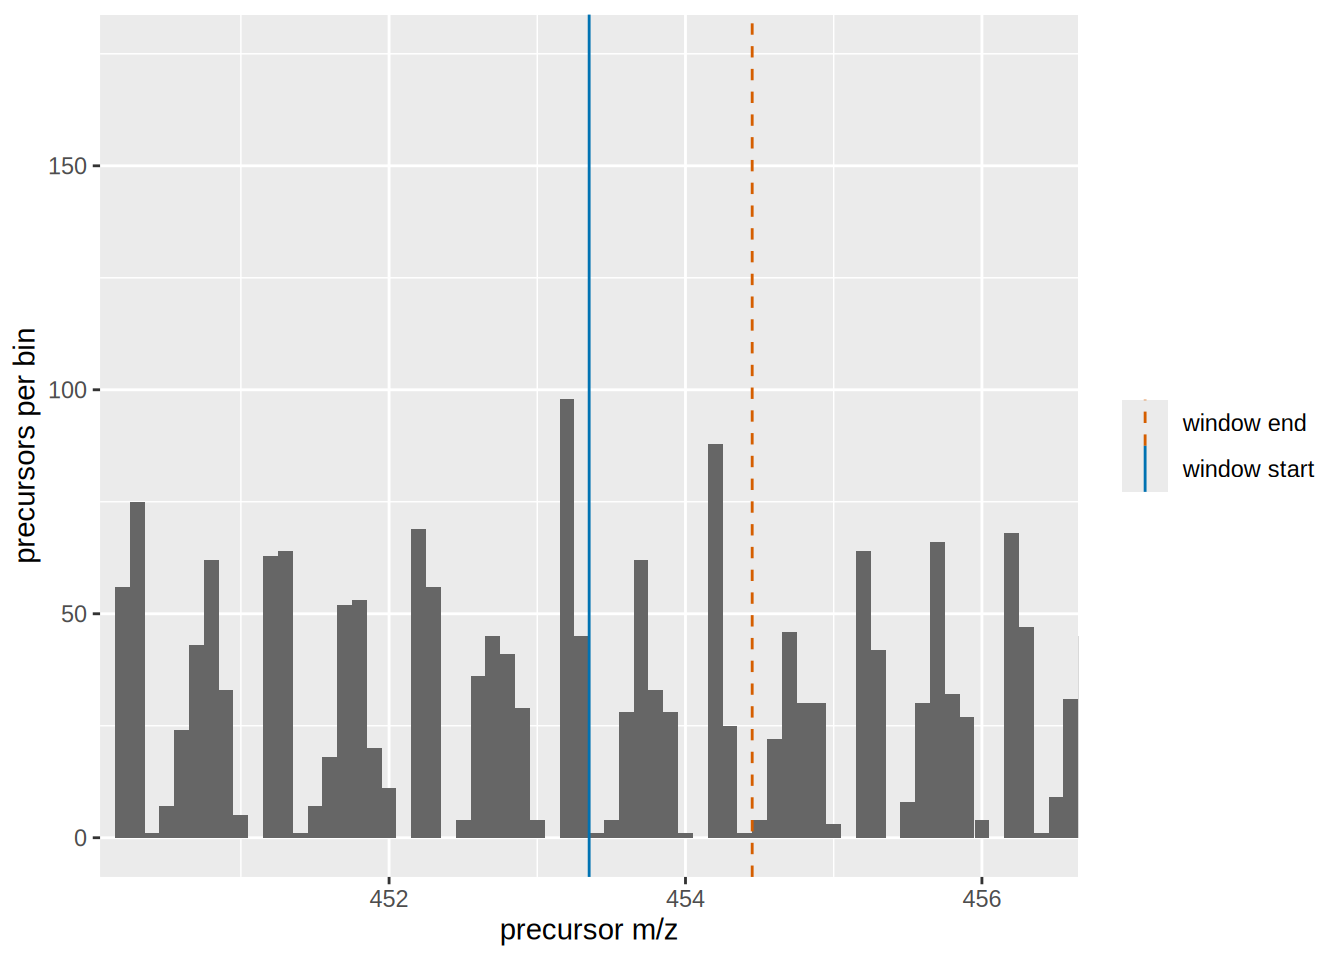
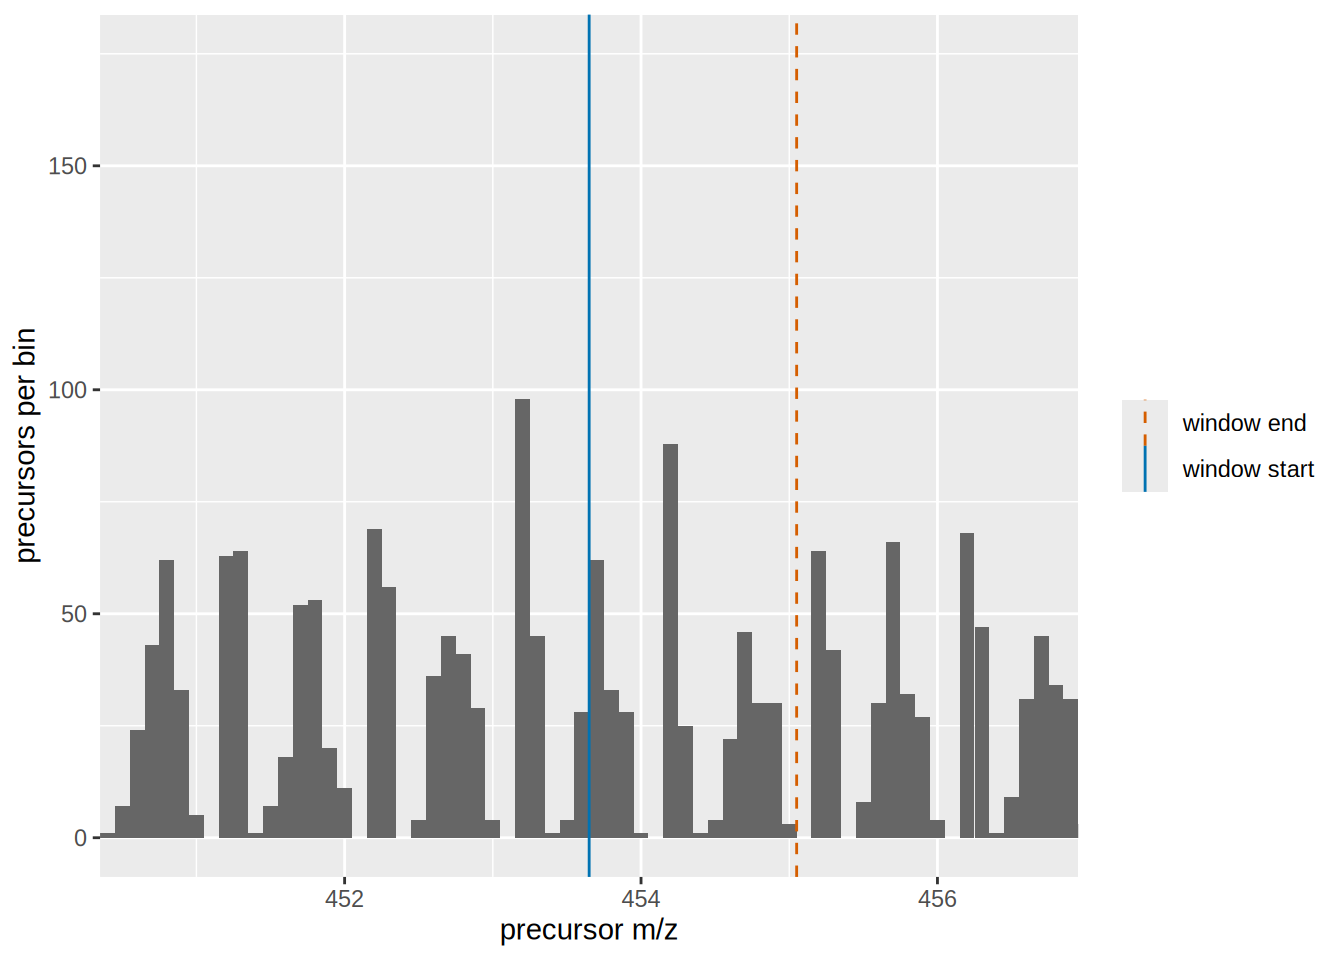
Deploying to gh-pages from @ protViz/prozor@183b9f41f8ab28ab572e6ac2d630c05c5eb521b6 🚀

diff --git a/man/Cdsw-class.html b/man/Cdsw-class.html
@@ -535,60 +535,60 @@ ggplot of the DIA cycle, one window per step; overlap in m/z.
 <div class="code-copy-outer-scaffold"><div class="sourceCode cell-code" id="cb3"><pre class="sourceCode r code-with-copy"><code class="sourceCode r"><span id="cb3-1"><a href="#cb3-1" aria-hidden="true" tabindex="-1"></a>cdsw<span class="sc">$</span><span class="fu">as_table</span>()</span></code></pre></div><button title="Copy to Clipboard" class="code-copy-button"><i class="bi"></i></button></div>
 <div class="cell-output cell-output-stdout">
 <pre><code>       from      to      mid  width counts
-0%   349.63  381.70  365.665  32.07   6104
-4%   380.70  408.40  394.550  27.70   6382
-8%   407.40  432.23  419.815  24.83   6524
-12%  431.23  454.74  442.985  23.51   6592
-16%  453.74  476.25  464.995  22.51   6638
-20%  475.25  496.80  486.025  21.55   6722
-24%  495.80  517.79  506.795  21.99   6739
-28%  516.79  538.78  527.785  21.99   6780
-32%  537.78  559.80  548.790  22.02   6701
-36%  558.80  581.28  570.040  22.48   6731
-40%  580.28  602.85  591.565  22.57   6623
-44%  601.85  625.84  613.845  23.99   6597
-48%  624.84  649.84  637.340  25.00   6595
-52%  648.84  675.33  662.085  26.49   6485
-56%  674.33  701.37  687.850  27.04   6432
-60%  700.37  728.86  714.615  28.49   6246
-64%  727.86  758.44  743.150  30.58   6194
-68%  757.44  790.92  774.180  33.48   6106
-72%  789.92  826.90  808.410  36.98   5950
-76%  825.90  866.96  846.430  41.06   5736
-80%  865.96  912.49  889.225  46.53   5494
-84%  911.49  963.44  937.465  51.95   5085
-88%  962.44 1026.34  994.390  63.90   4684
-92% 1025.34 1100.71 1063.025  75.37   4149
-96% 1099.71 1200.48 1150.095 100.77   3121</code></pre>
+0%   349.63  381.71  365.670  32.08   6113
+4%   380.71  408.45  394.580  27.74   6371
+8%   407.45  432.31  419.880  24.86   6584
+12%  431.31  454.72  443.015  23.41   6507
+16%  453.72  476.24  464.980  22.52   6644
+20%  475.24  496.76  486.000  21.52   6697
+24%  495.76  517.76  506.760  22.00   6749
+28%  516.76  538.32  527.540  21.56   6739
+32%  537.32  559.31  548.315  21.99   6670
+36%  558.31  580.49  569.400  22.18   6651
+40%  579.49  602.36  590.925  22.87   6727
+44%  601.36  625.35  613.355  23.99   6592
+48%  624.35  649.31  636.830  24.96   6550
+52%  648.31  674.82  661.565  26.51   6518
+56%  673.82  700.82  687.320  27.00   6417
+60%  699.82  728.41  714.115  28.59   6334
+64%  727.41  758.40  742.905  30.99   6210
+68%  757.40  790.59  773.995  33.19   6079
+72%  789.59  826.20  807.895  36.61   5935
+76%  825.20  865.96  845.580  40.76   5702
+80%  864.96  911.40  888.180  46.44   5489
+84%  910.40  962.64  936.520  52.24   5183
+88%  961.64 1025.81  993.725  64.17   4719
+92% 1024.81 1101.35 1063.080  76.54   4200
+96% 1100.35 1200.48 1150.415 100.13   3091</code></pre>
 </div>
 <div class="code-copy-outer-scaffold"><div class="sourceCode cell-code" id="cb5"><pre class="sourceCode r code-with-copy"><code class="sourceCode r"><span id="cb5-1"><a href="#cb5-1" aria-hidden="true" tabindex="-1"></a>cdsw<span class="sc">$</span><span class="fu">optimize_windows</span>()</span></code></pre></div><button title="Copy to Clipboard" class="code-copy-button"><i class="bi"></i></button></div>
 <div class="cell-output cell-output-stdout">
 <pre><code>      from      to     mid width counts
 1   350.13  381.35  365.74 31.22   6053
-2   381.05  407.95  394.50 26.90   6189
+2   381.05  408.05  394.55 27.00   6191
 3   407.65  431.85  419.75 24.20   6425
 4   431.65  454.35  443.00 22.70   6447
 5   454.15  475.85  465.00 21.70   6474
 6   475.65  496.35  486.00 20.70   6467
 7   496.15  517.45  506.80 21.30   6578
-8   517.15  538.45  527.80 21.30   6627
-9   538.15  559.45  548.80 21.30   6508
-10  559.15  581.05  570.10 21.90   6628
-11  580.55  602.45  591.50 21.90   6383
-12  602.15  625.45  613.80 23.30   6450
-13  625.15  649.45  637.30 24.30   6463
-14  649.25  675.15  662.20 25.90   6392
-15  674.75  700.95  687.85 26.20   6228
-16  700.75  728.45  714.60 27.70   6139
-17  728.25  758.15  743.20 29.90   6018
-18  757.75  790.55  774.15 32.80   6035
-19  790.25  826.55  808.40 36.30   5881
-20  826.25  866.55  846.40 40.30   5622
-21  866.35  912.05  889.20 45.70   5408
-22  911.85  963.05  937.45 51.20   5049
-23  962.85 1025.85  994.35 63.00   4600
-24 1025.75 1100.25 1063.00 74.50   4105
-25 1100.15 1200.05 1150.10 99.90   3101</code></pre>
+8   517.15  538.05  527.60 20.90   6472
+9   537.45  559.05  548.25 21.60   6542
+10  558.55  580.05  569.30 21.50   6458
+11  579.55  602.05  590.80 22.50   6576
+12  601.55  624.95  613.25 23.40   6446
+13  624.55  649.15  636.85 24.60   6510
+14  648.55  674.45  661.50 25.90   6387
+15  674.25  700.45  687.35 26.20   6277
+16  700.25  728.15  714.20 27.90   6163
+17  727.75  758.15  742.95 30.40   6117
+18  757.75  790.15  773.95 32.40   5970
+19  789.65  826.15  807.90 36.50   5928
+20  825.65  865.55  845.60 39.90   5580
+21  865.35  911.05  888.20 45.70   5459
+22  910.85  962.15  936.50 51.30   5042
+23  962.05 1025.35  993.70 63.30   4655
+24 1025.25 1100.85 1063.05 75.60   4152
+25 1100.75 1200.05 1150.40 99.30   3071</code></pre>
 </div>
 <div class="code-copy-outer-scaffold"><div class="sourceCode cell-code" id="cb7"><pre class="sourceCode r code-with-copy"><code class="sourceCode r"><span id="cb7-1"><a href="#cb7-1" aria-hidden="true" tabindex="-1"></a>cdsw<span class="sc">$</span><span class="fu">show_cycle</span>()</span></code></pre></div><button title="Copy to Clipboard" class="code-copy-button"><i class="bi"></i></button></div>
 <div class="cell-output-display">

diff --git a/CITATION.html b/CITATION.html
@@ -373,7 +373,7 @@ ul.task-list li input[type="checkbox"] {
 <h1>Citation</h1>
 <p>To cite package ‘prozor’ in publications use:</p>
 <p>
-Wolski W (????). <em>prozor: Minimal Protein Set Explaining Peptide Spectrum Matches</em>. <a href="https://doi.org/10.32614/CRAN.package.prozor">doi:10.32614/CRAN.package.prozor</a>. R package version 0.4.0, <a href="https://CRAN.R-project.org/package=prozor">https://CRAN.R-project.org/package=prozor</a>.
+Wolski W (????). <em>prozor: Minimal Protein Set Explaining Peptide Spectrum Matches</em>. R package version 0.4.0, <a href="https://protviz.github.io/prozor/">https://protviz.github.io/prozor/</a>.
 </p>
 
 

diff --git a/man/readjust_windows.html b/man/readjust_windows.html
@@ -473,11 +473,11 @@ Bins with fewer than <code>maxbin</code> precursors count as empty.
 <div class="cell-output cell-output-stdout">
 <pre><code>    from     to    mid width counts
 1 349.63 381.95 365.79 32.32   6177
-2 380.45 409.05 394.75 28.60   6576
-3 407.65 433.05 420.35 25.40   6709
-4 431.45 455.15 443.30 23.70   6612
-5 453.65 476.45 465.05 22.80   6746
-6 475.35 497.15 486.25 21.80   6678</code></pre>
+2 380.45 408.45 394.45 28.00   6431
+3 407.35 432.35 419.85 25.00   6584
+4 431.15 455.05 443.10 23.90   6722
+5 453.65 476.35 465.00 22.70   6746
+6 475.15 497.15 486.15 22.00   6828</code></pre>
 </div>
 </div>
 
